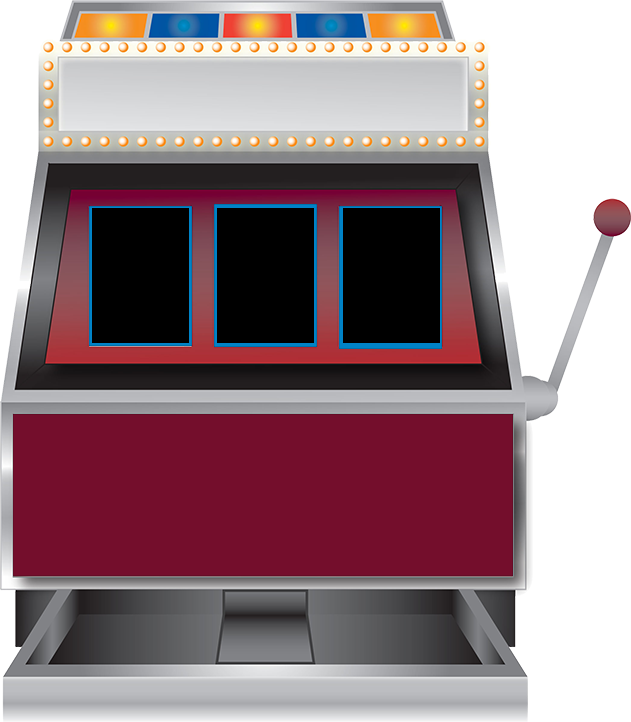
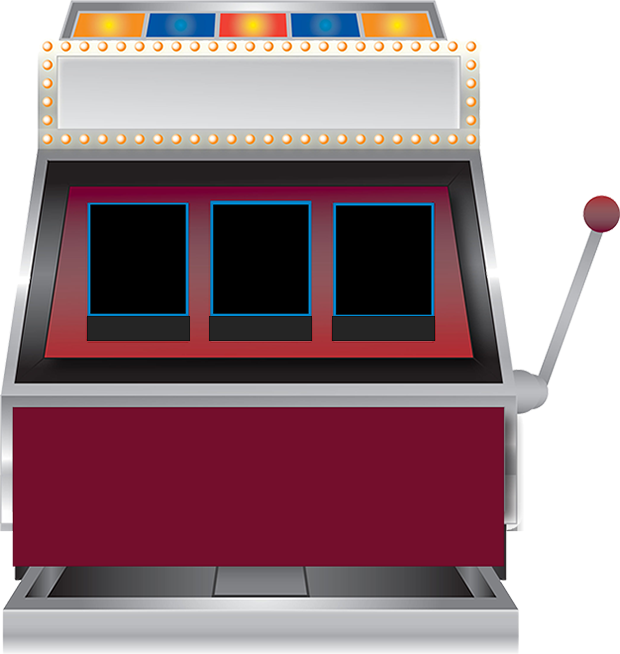
added image assets and spin button

diff --git a/SlotMachineAssignment/Scripts/game.ts b/SlotMachineAssignment/Scripts/game.ts
@@ -1,17 +1,17 @@
-// CreateJS Boilerplate for COMP397
-
-
+
 // VARIABLES ++++++++++++++++++++++++++++++++++++++++++++++++++++++++++
 var canvas; // Reference to the HTML 5 Canvas element
 var stage: createjs.Stage; // Reference to the Stage
 var helloText: createjs.Text; // Holds my Hello World! Text
 var buttonBitmap: createjs.Bitmap;
 
+var game;
+var background;
+var spinButton;
+
 // FUNCTIONS ++++++++++++++++++++++++++++++++++++++++++++++++++++++++
 
 function init() {
-
-
 
     canvas = document.getElementById("canvas");
     stage = new createjs.Stage(canvas); // Parent Object
@@ -28,34 +28,32 @@ function init() {
 function gameLoop() {
     stage.update();
 }
+function createUI() {
+    background = new createjs.Bitmap("assets/images/slot-machine.png");
+    game.addChild(background);
 
-function buttonClicked() {
-    helloText.text = "Goodbye!";
-}
+    spinButton = new createjs.Bitmap("assets/images/SpinButton.png");
+    spinButton.x = 400;
+    spinButton.y = 450;
+    game.addChild(spinButton);
 
-function buttonOut() {
-    buttonBitmap.alpha = 1;
-}
 
-function buttonOver() {
-    buttonBitmap.alpha = 0.5;
+    //spinButton.addEventListener("click", SpinBtn);
 }
 
 
 function main() {
-    // This is where all the work happens
-    helloText = new createjs.Text("Hello World!", "40px Consolas", "#000000");
-    stage.addChild(helloText); // First Child Object that we add to the stage
 
-    // Green Button
-    buttonBitmap = new createjs.Bitmap("assets/images/button-small.png");
-    buttonBitmap.x = 100;
-    buttonBitmap.y = 100;
-    buttonBitmap.addEventListener("click", buttonClicked);
-    buttonBitmap.addEventListener("mouseout", buttonOut);
-    buttonBitmap.addEventListener("mouseover", buttonOver);
+    // instantiate my game container
+    game = new createjs.Container();
+   
 
-    stage.addChild(buttonBitmap);
+    // Create Slotmachine User Interface
+    createUI();
+
+
+    stage.addChild(game);
+    
 
 
 }

diff --git a/SlotMachineAssignment/Scripts/game.js b/SlotMachineAssignment/Scripts/game.js
@@ -1,0 +1,47 @@
+// VARIABLES ++++++++++++++++++++++++++++++++++++++++++++++++++++++++++
+var canvas;
+var stage;
+var helloText;
+var buttonBitmap;
+
+var game;
+var background;
+var spinButton;
+
+// FUNCTIONS ++++++++++++++++++++++++++++++++++++++++++++++++++++++++
+function init() {
+    canvas = document.getElementById("canvas");
+    stage = new createjs.Stage(canvas); // Parent Object
+    stage.enableMouseOver(20); // Turn on Mouse Over events
+
+    createjs.Ticker.setFPS(60); // Set the frame rate to 60 fps
+    createjs.Ticker.addEventListener("tick", gameLoop);
+
+    main();
+}
+
+// GAMELOOP
+function gameLoop() {
+    stage.update();
+}
+function createUI() {
+    background = new createjs.Bitmap("assets/images/slot-machine.png");
+    game.addChild(background);
+
+    spinButton = new createjs.Bitmap("assets/images/SpinButton.png");
+    spinButton.x = 400;
+    spinButton.y = 450;
+    game.addChild(spinButton);
+    //spinButton.addEventListener("click", SpinBtn);
+}
+
+function main() {
+    // instantiate my game container
+    game = new createjs.Container();
+
+    // Create Slotmachine User Interface
+    createUI();
+
+    stage.addChild(game);
+}
+//# sourceMappingURL=game.js.map

diff --git a/SlotMachineAssignment/index.html b/SlotMachineAssignment/index.html
@@ -9,7 +9,7 @@
 </head>
 <body onload="init();">
     <!-- Our CreateJS Game will be displayed here-->
-    <canvas id="canvas" width="640" height="480"></canvas>
+    <canvas id="canvas" width="626" height="654"></canvas>
 
     <!-- JavaScript Section -->
     <script src="Scripts/lib/easeljs-0.8.0.min.js"></script>
